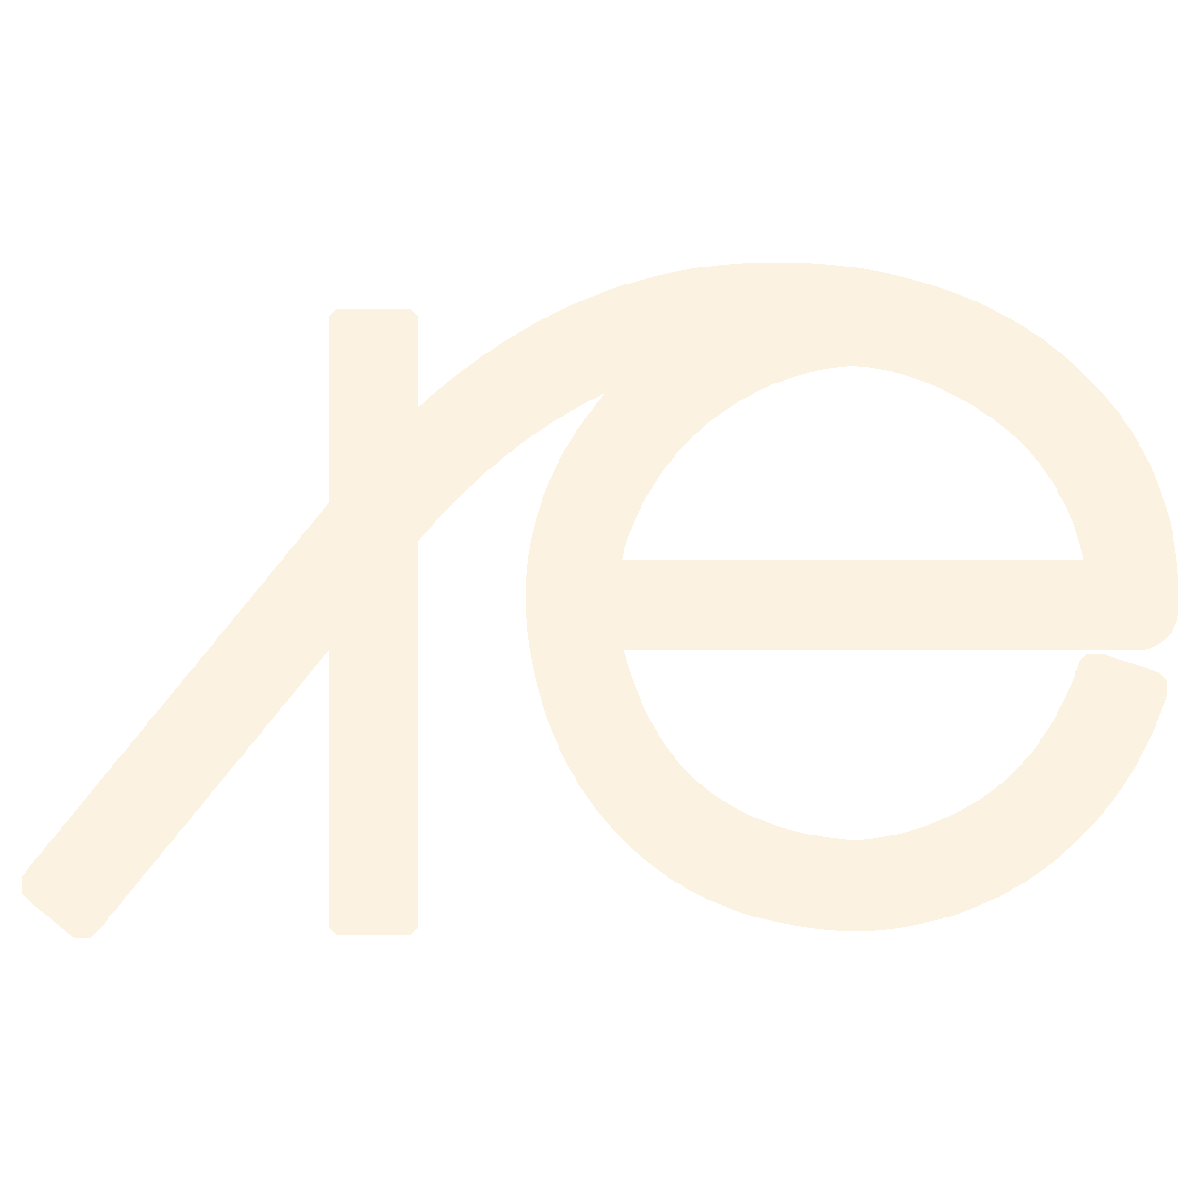
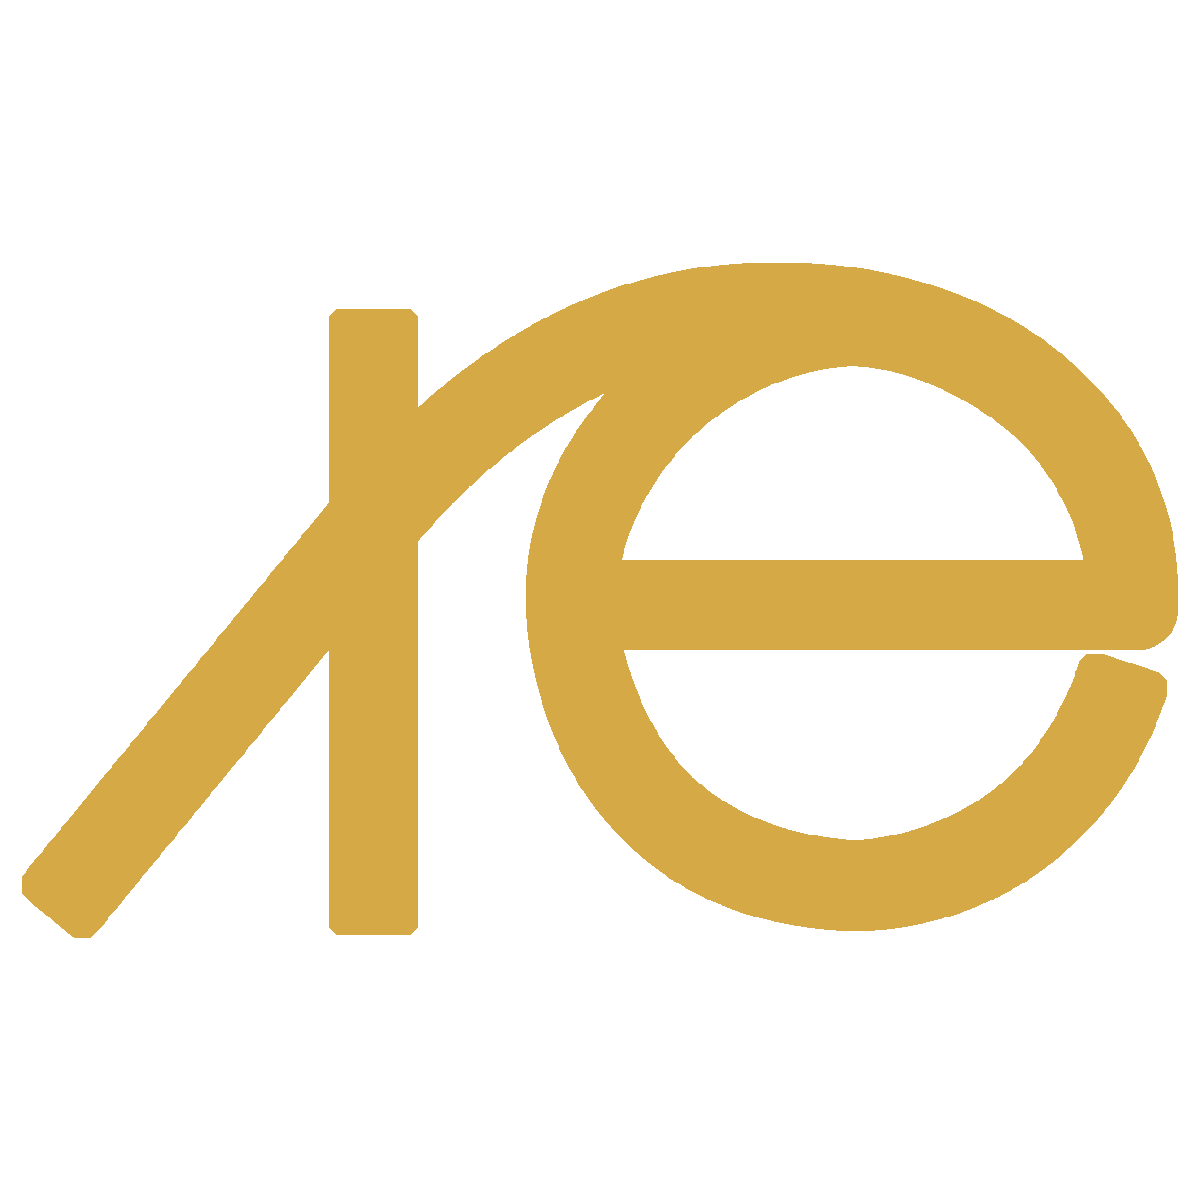
started about page
working on menu navigation

Changed region(s): [[0.0, 0.2158, 0.9867, 0.8017]]

diff --git a/pages/about.html b/pages/about.html
@@ -5,41 +5,63 @@
     <meta http-equiv="x-ua-compatible" content="ie=edge">
     <meta name="viewport" content="width=device-width, initial-scale=1.0">
     <meta name="author" content="RheaErice">
-    <title>About Page</title>
+    <link rel="shortcut icon" href="../images/rhea-icon.ico">
+    <title>Rhea Erice &#124; About</title>
     <link href="https://fonts.googleapis.com/css?family=Barlow+Condensed|Lato" rel="stylesheet">
     <link rel="stylesheet" href="../css/foundation.css">
     <link rel="stylesheet" href="../css/app.css">
+    <link rel="stylesheet" href="https://d1azc1qln24ryf.cloudfront.net/114779/Socicon/style-cf.css?9ukd8d">
   </head>
   <body>
     <div class="grid-container">
       <div class="grid-x grid-padding-x">
 
-        <div class="large-12 cell ">
-          <nav class="nav large-12 small-6 cell">
-            <a href="../index.html"><h3>About</h3></a>
-          </nav>
+        <div class="Menu large-12 cell small-12">
+          <div class="large-12 cell">
+            <h3>About Me</h3>
+            <img src="../images/rhea-icon.png" alt="RE Logo" style="width:60px;height:60px;border:0">
+          </div>
         </div>
 
-        <div class="river large-12 cell">
-          <p>I went down to the river, <br>
-             I set down on the bank.<br>
-             I tried to think but couldn&apos;t, <br>
-             So I jumped in and sank.
-          </p>
-          <p>I came up once and hollered&excl;<br>
-             I came up twice and cried&excl;<br>
-             If that water hadn&apos;t a&ndash;been so cold <br>
-             I might&apos;ve sunk and died.
-          </p>
+        <div class="large-12 small-12">
+          <div class="large-6">
+            <h4>Hello</h4>
+            <p>My name is Rhea Erice and I am a Graphic Designer working in Hayward, California.</p>
+          </div>
+        <div class="large-6">
+          <!--my portrait photo will go here-->
+        </div>
         </div>
 
-      <a href="elevator.html">
-        <div class="rivers">
-        <div class="water"> </div>
-        <div class="water"></div>
-        <div class="water"></div>
-      </div>
-    </a>
+
+
+        <footer class="large-12 small-12">
+        <div class="large-12 small-12">
+            <div class="large-12 small-12 footersocial">
+              <ul>
+                <li>
+                  <a target="_blank" href="https://www.instagram.com/tasteofre/" title="Instagram">
+                  <span class="socicon-instagram"> </span> </a>
+                </li>
+                <li>
+                  <a href="mailto:ericerhea@gmail.com" title="Email">
+                  <span class="socicon-mail"></span></a>
+                </li>
+                <li>
+                  <a target="_blank" href="https://www.linkedin.com/in/rhea-erice-62910a16b/" title="Linked">
+                  <span class="socicon-linkedin"> </span></a>
+                </li>
+              </ul>
+            </div>
+          </div>
+
+        <div class="large-12 cell hide-for-small-only">
+          <h6>&copy;  2018  &#124;  Rhea Erice</h6>
+        </div>
+        </footer>
+
+
+
 
       </div> <!--closes the grid-x grid-padding-x -->
     </div> <!--closes the container -->

diff --git a/css/app.css b/css/app.css
@@ -4,7 +4,7 @@ font-family: 'Lusitana', serif;*/
 /*index*/
 
 body {
-  background-color: #FCF2E2;
+  background-color: #FAF7E6;
 
 }
 
@@ -68,7 +68,7 @@ body {
 
 .title h1 {
   font-family: 'Barlow Condensed', sans-serif;
-  color: black;
+  color: #d5aa46;
   text-transform: uppercase;
   font-weight: bold;
   text-align: left;
@@ -76,7 +76,7 @@ body {
   margin: 125px auto;
   margin-bottom: 0px;
   padding-bottom: 30px;
-  border-bottom: 1px solid black;
+  border-bottom: 1px solid #33322F;
   border-width: thick;
   width: 210px;
 }
@@ -107,7 +107,7 @@ body {
 
 .subtitle h2 {
   font-family: 'Barlow Condensed', sans-serif;
-  color: black;
+  color: #33322F;
   text-align: left;
   font-size: 36px;
   padding-top: 8px;
@@ -117,15 +117,25 @@ body {
 
 }
 
+/*end of landing page*/
+
+.menu {
+  text-decoration: none;
+  display: inline;
+  text-align: center;
+}
+
 h3 {
   font-family: 'Barlow Condensed', serif;
-  color: gray;
+  color: #33322F;
   text-align: center;
-  width: 200px;
-  font-size: 50px;
+  width: 180px;
+  font-size: 35px;
+  padding: 0px;
   margin: 50px auto;
-  margin-bottom: 0px;
-  border-color: gray;
+  margin-bottom: 170px;
+  border-bottom: 5px solid black;
+
 }
 
 nav {
@@ -145,24 +155,37 @@ nav {
   color: gray;
 }
 
+h4  {
+  font-family: 'Lato', sans-serif;
+  font-weight: bold;
+  color: #33322F;
+  font-size: 40px;
+  text-align: left;
+  margin-left: 100px;
+}
+
 p {
-  font-family: 'Barlow Condensed', sans-serif;
+  font-family: 'Lato', sans-serif;
   color: black;
   font-size: 20px;
+  text-align: left;
+  margin-left: 100px;
 }
+
+
+/*footer starts here*/
 
 h6 {
   font-family: 'Lato', sans-serif;
   text-decoration: none;
   text-align: center;
-  color: #ADAFAF;
+  color: #BAB8AB;
   font-size: 14px;
   margin:  auto;
   margin-top: 30px;
   margin-bottom: 45px;
 }
 
-/*test footer*/
 footer {
   margin: auto;
   text-decoration: none;
@@ -232,56 +255,11 @@ footer {
   width: 25px;
 }
 
-.footersocial li a {
-  color: #ADAFAF;
-
-}
-.footersocial li a:hover {color:#d5aa46;}
+.footersocial li a {color: #BAB8AB;}
+.footersocial li a:hover {color: #d5aa46;}
 
 
-/*
-.socialicons {
-  padding: 0px 15px;
-  margin: 40px auto;
-  margin-bottom: 10px;
-  align-items: center;
-  text-align: center;
-  text-decoration: none;
-}
 
-.insta:link {
-  padding: 0px 15px;
-  margin: 40px auto;
-  margin-bottom: 10px;
-  align-items: center;
-  text-align: center;
-  text-decoration: none;
-
-}
-.insta:hover{
-  height: 50px;
-  width: 50px;
-}
-
-.email:link {
-  padding: 0px 15px;
-  margin: 40px auto;
-  margin-bottom: 10px;
-  align-items: center;
-  text-align: center;
-  text-decoration: none;
-
-}
-.linked:link {
-  padding: 0px 15px;
-  margin: 40px auto;
-  margin-bottom: 10px;
-  align-items: center;
-  text-align: center;
-  text-decoration: none;
-
-}
-*/
 /*from animations webs
 /*first page*/
 /*from animations website

diff --git a/index.html b/index.html
@@ -31,9 +31,9 @@
           </div>
         </div>
 
+
         <footer class="large-12 small-12">
         <div class="large-12 small-12">
-
             <div class="large-12 small-12 footersocial">
               <ul>
                 <li>
@@ -50,23 +50,8 @@
                 </li>
               </ul>
             </div>
-
           </div>
-
-
-
-
-         <!--<footer class="footer cell hide-for-small-only large-12 small-12">
-          <div class="socialicons large-12 cell">
-          <a target="_blank" href="https://www.instagram.com/tasteofre/" class="insta" title="Instagram">
-          <img src="images/insta.png" alt="instagram" style="width:20px;height:20px;border:0"> </a>
-           <a href="mailto:ericerhea@gmail.com" class="email" title="Email">
-           <img src="images/email.png" alt="email" style="width:20px;margin-top:3px;height:14px;border:0"> </a>
-            <a target="_blank" href="https://www.linkedin.com/in/rhea-erice-62910a16b/" class="linked" title="Linkedin">
-            <img src="images/linked.png" alt="linked" style="width:20px;height:20px;border:0"> </a>
-          </div>-->
-
-          <div class="large-12 cell hide-for-small-only">
+        <div class="large-12 cell hide-for-small-only">
           <h6>&copy;  2018  &#124;  Rhea Erice</h6>
         </div>
         </footer>
